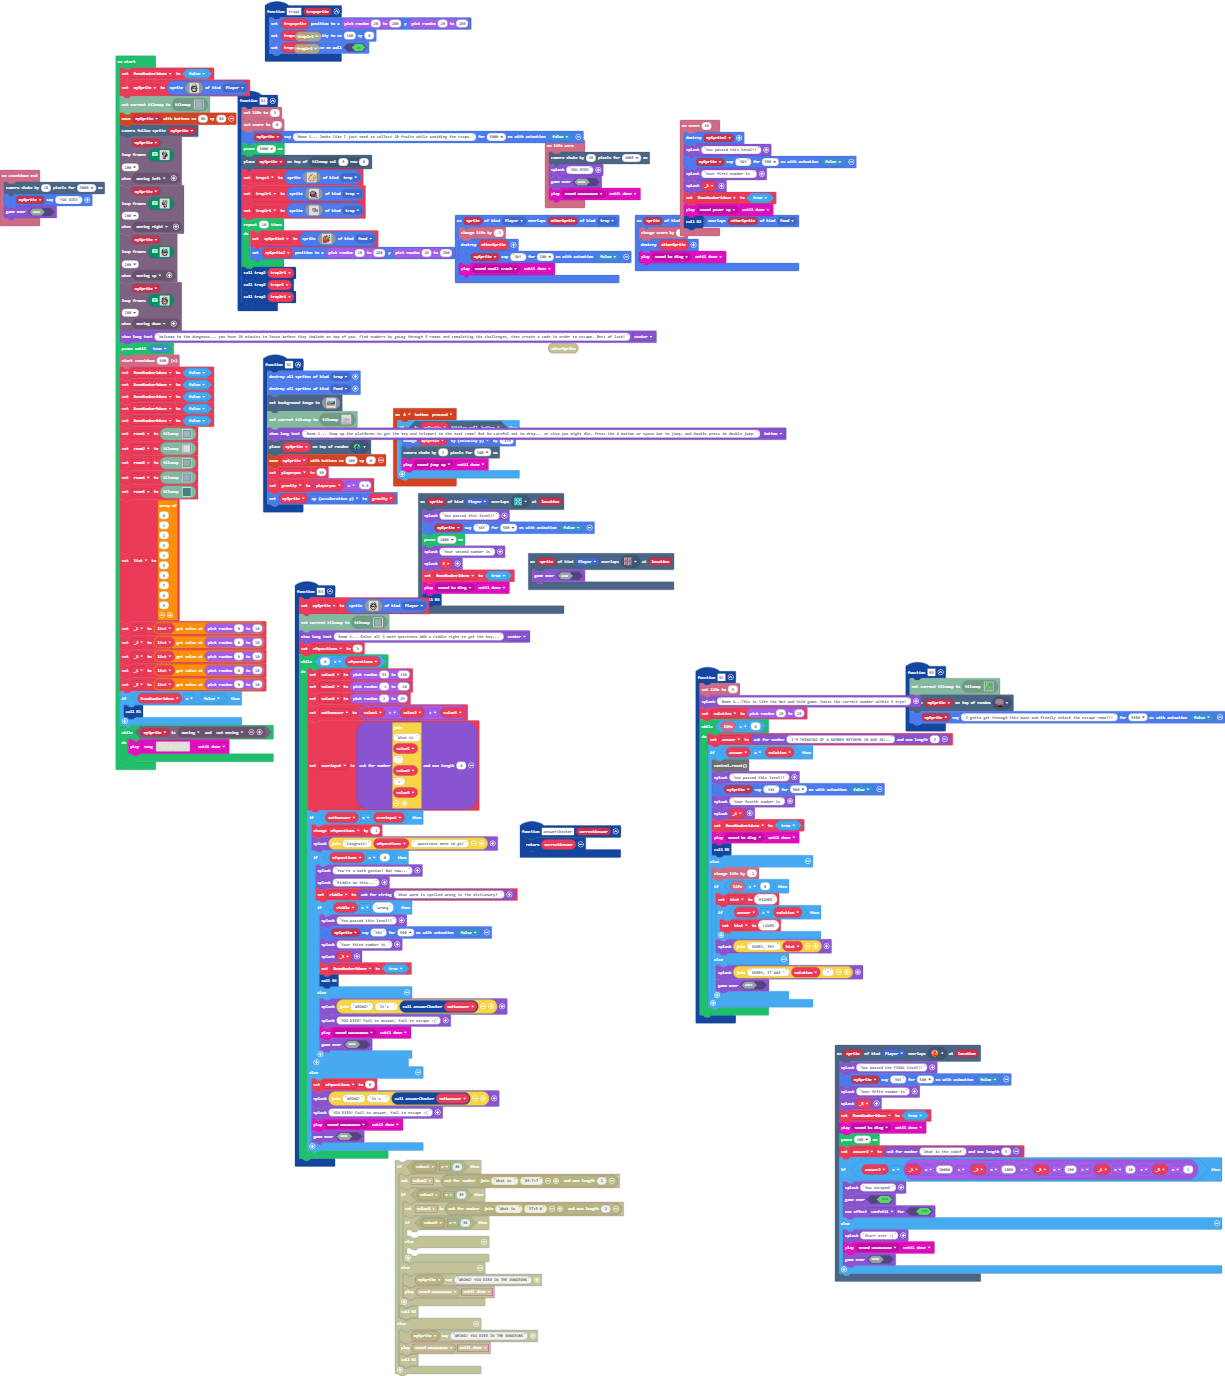
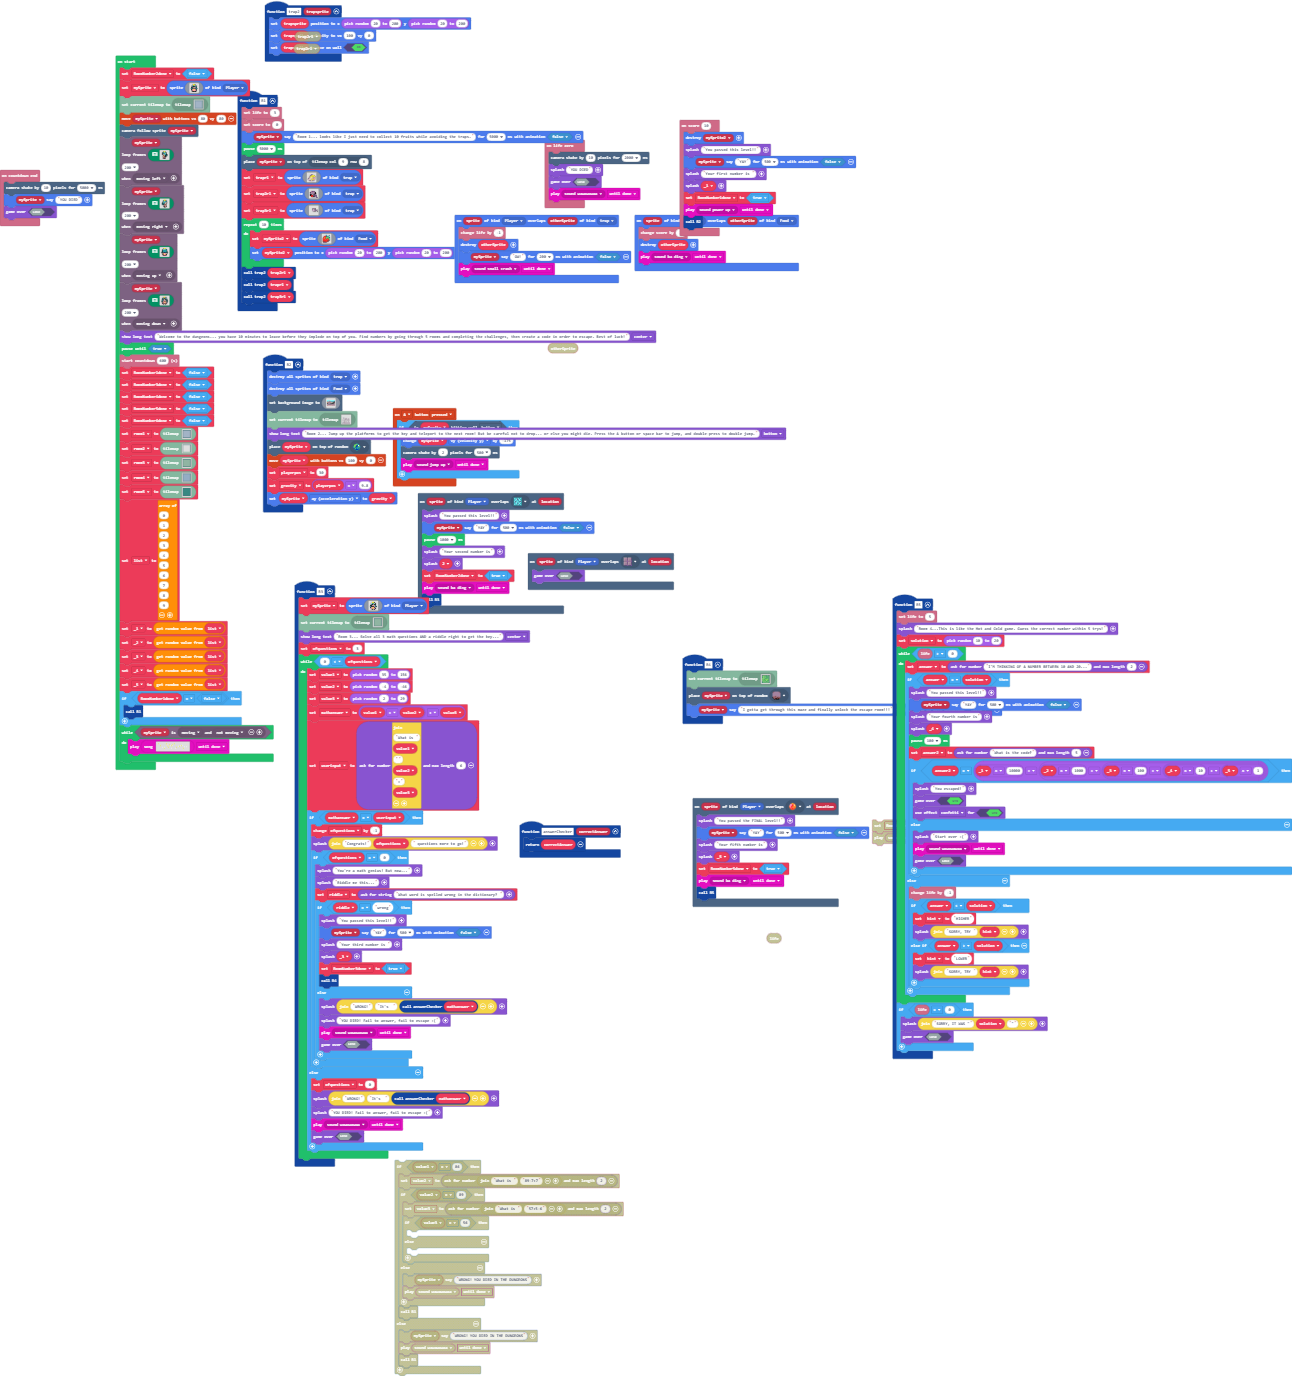
change order

diff --git a/main.ts b/main.ts
@@ -343,34 +343,9 @@ info.onLifeZero(function () {
     music.play(music.melodyPlayable(music.wawawawaa), music.PlaybackMode.UntilDone)
 })
 function R4 () {
-    info.setLife(5)
-    game.splash("Room 4...This is like the Hot and Cold game. Guess the correct number within 5 trys!")
-    solution = randint(10, 20)
-    while (info.life() > 0) {
-        answer = game.askForNumber("I'M THINKING OF A NUMBER BETWEEN 10 AND 20...", 2)
-        if (answer == solution) {
-            control.reset()
-game.splash("You passed this level!!")
-            mySprite.sayText("YAY", 500, false)
-            game.splash("Your fourth number is")
-            game.splash(_4)
-            RoomNumber4done = true
-            music.play(music.melodyPlayable(music.baDing), music.PlaybackMode.UntilDone)
-            R5()
-        } else {
-            info.changeLifeBy(-1)
-            if (info.life() > 0) {
-                hint = "HIGHER"
-                if (answer > solution) {
-                    hint = "LOWER"
-                }
-                game.splash("SORRY, TRY " + hint)
-            } else {
-                game.splash("SORRY, IT WAS \"" + solution + "\"")
-                game.gameOver(false)
-            }
-        }
-    }
+    tiles.loadMap(tiles.createMap(tilemap`level17`))
+    tiles.placeOnRandomTile(mySprite, sprites.builtin.forestTiles8)
+    mySprite.sayText("I gotta get through this maze and finally unlock the escape room!!!", 3500, false)
 }
 sprites.onOverlap(SpriteKind.Player, SpriteKind.Food, function (sprite, otherSprite) {
     info.changeScoreBy(1)
@@ -384,22 +359,45 @@ scene.onOverlapTile(SpriteKind.Player, sprites.dungeon.collectibleRedCrystal, fu
     game.splash(_5)
     RoomNumber5done = true
     music.play(music.melodyPlayable(music.baDing), music.PlaybackMode.UntilDone)
-    pause(100)
-    answer2 = game.askForNumber("What is the code?", 5)
-    if (answer2 == _1 * 10000 + (_2 * 1000 + (_3 * 100 + (_4 * 10 + _5 * 1)))) {
-        game.splash("You escaped!")
-        game.gameOver(true)
-        game.setGameOverEffect(true, effects.confetti)
-    } else {
-        game.splash("Start over :(")
-        music.play(music.melodyPlayable(music.wawawawaa), music.PlaybackMode.UntilDone)
-        game.gameOver(false)
-    }
+    R5()
 })
 function R5 () {
-    tiles.loadMap(tiles.createMap(tilemap`level17`))
-    tiles.placeOnRandomTile(mySprite, sprites.builtin.forestTiles8)
-    mySprite.sayText("I gotta get through this maze and finally unlock the escape room!!!", 3500, false)
+    info.setLife(5)
+    game.splash("Room 4...This is like the Hot and Cold game. Guess the correct number within 5 trys!")
+    solution = randint(10, 20)
+    while (info.life() > 0) {
+        answer = game.askForNumber("I'M THINKING OF A NUMBER BETWEEN 10 AND 20...", 2)
+        if (answer == solution) {
+            game.splash("You passed this level!!")
+            mySprite.sayText("YAY", 500, false)
+            game.splash("Your fourth number is")
+            game.splash(_4)
+            pause(100)
+            answer2 = game.askForNumber("What is the code?", 5)
+            if (answer2 == _1 * 10000 + (_2 * 1000 + (_3 * 100 + (_4 * 10 + _5 * 1)))) {
+                game.splash("You escaped!")
+                game.gameOver(true)
+                game.setGameOverEffect(true, effects.confetti)
+            } else {
+                game.splash("Start over :(")
+                music.play(music.melodyPlayable(music.wawawawaa), music.PlaybackMode.UntilDone)
+                game.gameOver(false)
+            }
+        } else {
+            info.changeLifeBy(-1)
+            if (answer < solution) {
+                hint = "HIGHER"
+                game.splash("SORRY, TRY " + hint)
+            } else if (answer > solution) {
+                hint = "LOWER"
+                game.splash("SORRY, TRY " + hint)
+            }
+        }
+    }
+    if (info.life() == 0) {
+        game.splash("SORRY, IT WAS \"" + solution + "\"")
+        game.gameOver(false)
+    }
 }
 scene.onOverlapTile(SpriteKind.Player, sprites.dungeon.collectibleInsignia, function (sprite, location) {
     let _22 = 0
@@ -412,8 +410,8 @@ scene.onOverlapTile(SpriteKind.Player, sprites.dungeon.collectibleInsignia, func
     music.play(music.melodyPlayable(music.baDing), music.PlaybackMode.UntilDone)
     R3()
 })
-let answer2 = 0
 let hint = ""
+let answer2 = 0
 let answer = 0
 let solution = 0
 let riddle = ""
@@ -435,7 +433,6 @@ let _3 = 0
 let _2 = 0
 let _1 = 0
 let RoomNumber5done = false
-let RoomNumber4done = false
 let RoomNumber3done = false
 let RoomNumber1done = false
 let mySprite: Sprite = null
@@ -695,7 +692,7 @@ pauseUntil(() => true)
 info.startCountdown(600)
 RoomNumber1done = false
 RoomNumber3done = false
-RoomNumber4done = false
+let RoomNumber4done = false
 RoomNumber5done = false
 let RoomNumber6done = false
 let room1 = tiles.createMap(tilemap`level6`)
@@ -715,11 +712,11 @@ let list = [
 8,
 9
 ]
-_1 = list[randint(0, 10)]
-_2 = list[randint(0, 10)]
-_3 = list[randint(0, 10)]
-_4 = list[randint(0, 10)]
-_5 = list[randint(0, 10)]
+_1 = list._pickRandom()
+_2 = list._pickRandom()
+_3 = list._pickRandom()
+_4 = list._pickRandom()
+_5 = list._pickRandom()
 if (RoomNumber1done == false) {
     R1()
 }
